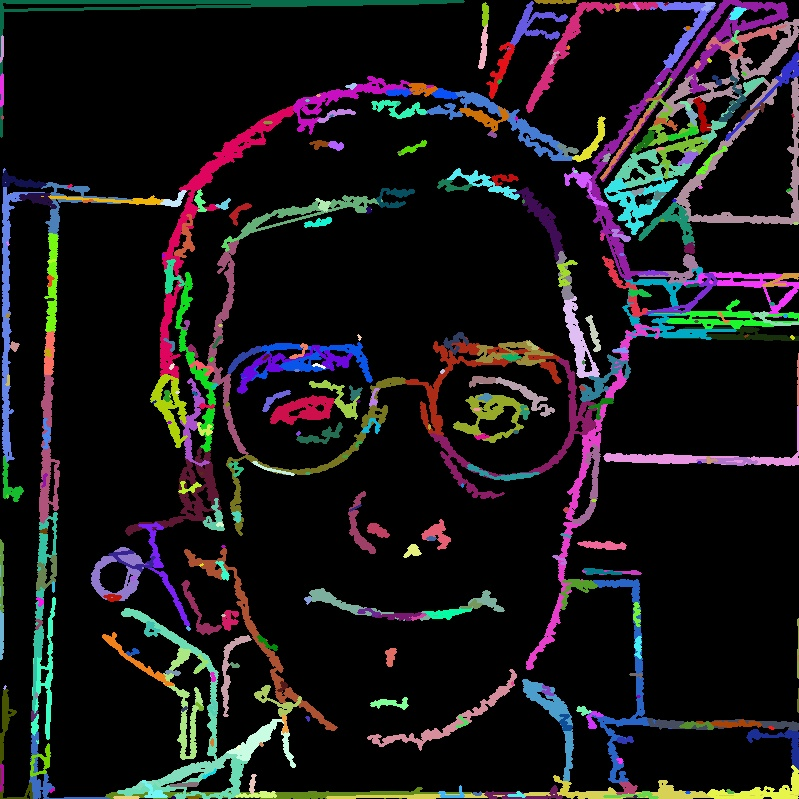
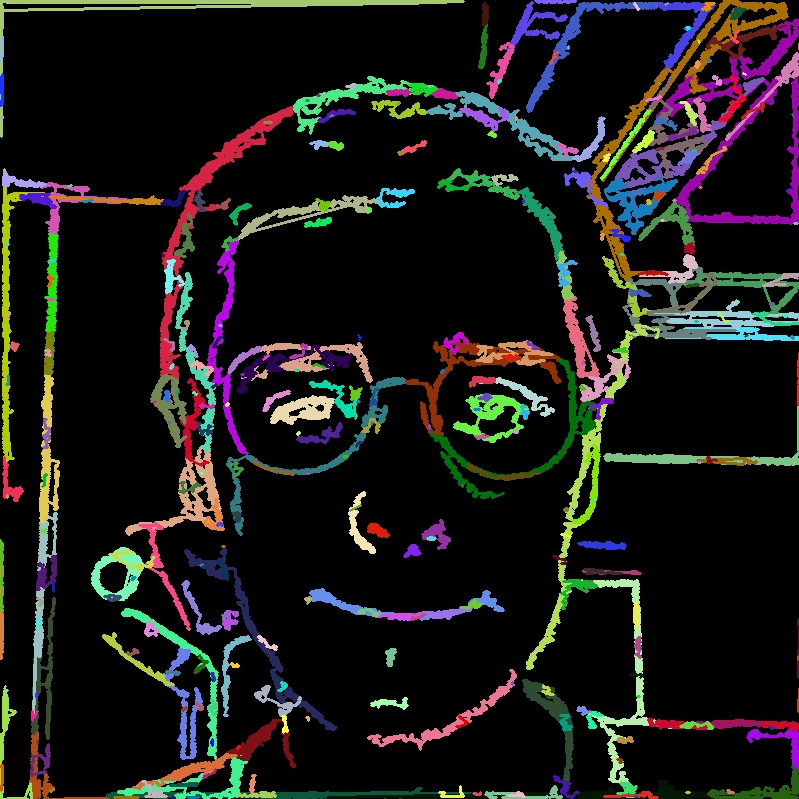
adsadsdasdasda

diff --git a/main.py b/main.py
@@ -1,12 +1,11 @@
 from modules.loader import load_sketch
 from modules.solvers import line_solver, pen_picker
-from modules.utils import sketch_plotter, line_length
+from modules.utils import sketch_plotter, line_length, give_lift_space, look_path
 import numpy as np
 from robotic import ry
-import time
 
 # TODO get WHITE_BOARD_Z from depth camera
-LIFT_SPACE = np.array([.15, .0, .0])
+MAX_LIFT_SPACE = np.array([.15, .0, .0])
 DRAW_SPEED = 0.1
 WHITEBOARD_DEPTH = .4
 SCKETCH_DIMS = [.3, .3]
@@ -36,11 +35,50 @@ pen_tip.setRelativePose("t(.0 .05 -.05)")
 pen_tip.setShape(ry.ST.sphere, size=[.005])
 pen_tip.setColor([1., .0, 1.])
 
-sketch = load_sketch("data/output.json", max_dims=SCKETCH_DIMS, canvas_center=[-.05, 0], whiteboard_depth=WHITEBOARD_DEPTH)
-C = sketch_plotter(sketch, C)
-
 bot = ry.BotOp(C, False)
 bot.home(C)
+
+# Find Faces
+find_faces = True
+if find_faces:
+    points = look_path(ry_config=C)
+    index = 0
+    while True:
+        komo = ry.KOMO()
+        komo.setConfig(C, True)
+        komo.setTiming(1, 3, 1., 2)
+        komo.addControlObjective([], 0, 1e-2)
+        komo.addControlObjective([], 2, 1e1)
+
+        komo.addObjective([], ry.FS.accumulatedCollisions, [], ry.OT.eq)
+        komo.addObjective([], ry.FS.jointLimits, [], ry.OT.ineq)
+
+        komo.addObjective([], ry.FS.vectorZ, ["l_gripper"], ry.OT.sos, [2.], [-1, 0, 0])
+        komo.addObjective([], ry.FS.vectorY, ["l_gripper"], ry.OT.eq, [0.5], [0, 0, 1])
+
+        komo.addObjective([1.], ry.FS.position, ["pen_tip"], ry.OT.eq, [1e1], points[index])
+
+        ret = ry.NLP_Solver() \
+            .setProblem(komo.nlp()) \
+            .setOptions(stopTolerance=1e-2, verbose=0) \
+            .solve()
+        print(ret)
+        
+        bot.move(komo.getPath(), [1.])
+        while bot.getTimeToEnd() > 0:
+            bot.sync(C, .1)
+
+        index += 1
+        if index >= len(points): index = 0
+
+        # Take picture
+        # if face: break
+
+    # Make face into sketch
+else:
+    sketch = load_sketch("data/compressed_good_drawing.json", max_dims=SCKETCH_DIMS, canvas_center=CANVAS_CENTER, whiteboard_depth=WHITEBOARD_DEPTH)
+
+C = sketch_plotter(sketch, C)
 
 # Grasp pen
 grasp = True
@@ -65,15 +103,18 @@ if grasp:
 bot.sync(C, .1)
 draw = True
 if draw:
-    last_point = np.array(sketch[0][0])+LIFT_SPACE
+    lift_space = MAX_LIFT_SPACE
+    last_point = np.array(sketch[0][0])+lift_space
     for j, line in enumerate(sketch):
+
+        print(f"Drawing line {j+1} of {len(sketch)}. ({(j*100/len(sketch)):.2f}% Done)")
     
         line_start = np.array(line[0])
         line_end = np.array(line[-1])
 
         # Move hand to line starting position
-        lift_path = [last_point, line_start + LIFT_SPACE, line_start]
-        time_to_solve = line_length(lift_path)/DRAW_SPEED
+        lift_path = [last_point, line_start + lift_space, line_start]
+        time_to_solve = line_length(lift_path)/(DRAW_SPEED*4)
         path = line_solver(lift_path[1:], C, debug=False)
 
         bot.move(path, [time_to_solve])
@@ -81,23 +122,27 @@ if draw:
             bot.sync(C, .1)
 
         # Draw single line
-        bot.sync(C, 0.)
-        time_to_solve = line_length(line)/DRAW_SPEED
-        path = line_solver(line[1:], C, debug=False)
+        try:
+            bot.sync(C, 0.)
+            time_to_solve = line_length(line)/DRAW_SPEED
+            path = line_solver(line[1:], C, debug=False)
 
-
-        bot.move(path, [time_to_solve])
-        while bot.getTimeToEnd() > 0:
-            bot.sync(C, .1)
+            bot.move(path, [time_to_solve])
+            while bot.getTimeToEnd() > 0:
+                bot.sync(C, .1)
+        except: pass
 
         # Lift hand from whiteboard
         bot.sync(C, 0.)
-        lift_path = [line_end, line_end + LIFT_SPACE]
-        time_to_solve = line_length(lift_path)/DRAW_SPEED
+        lift_path = [line_end, line_end + lift_space]
+        time_to_solve = line_length(lift_path)/(DRAW_SPEED*4)
         path = line_solver(lift_path[1:], C, debug=False)
 
         bot.move(path, [time_to_solve])
         while bot.getTimeToEnd() > 0:
             bot.sync(C, .1)
 
-        last_point = line_end + LIFT_SPACE
+        last_point = line_end + lift_space
+
+        if j != len(sketch)-1:
+            lift_space = np.array([give_lift_space(line_end, sketch[j+1][0]), 0, 0])

diff --git a/modules/utils.py b/modules/utils.py
@@ -27,3 +27,35 @@ def line_length(line):
     for i in range(len(line)-1):
         sum_ += np.sqrt(np.power(line[i][0]-line[i+1][0], 2)+np.power(line[i][1]-line[i+1][1], 2)+np.power(line[i][2]-line[i+1][2], 2))
     return sum_
+
+def give_lift_space(start_point, end_point, max_lift=.1, min_lift=.01):
+    start_point = np.array(start_point)
+    end_point = np.array(end_point)
+    distance = np.linalg.norm(end_point-start_point)
+    return min(max_lift, max(distance, min_lift))
+
+def look_path(center=np.array([0, 0, 1.5]), radious=np.array([-.6, 0, 0]), count_=6, ry_config=None):
+    points = []
+    rotation_matrix = np.array([
+        [np.cos(np.pi/count_), -np.sin(np.pi/count_), 0],
+        [np.sin(np.pi/count_),  np.cos(np.pi/count_), 0],
+        [                   0,                     0, 1],
+    ])
+    if ry_config:
+        ry_config.addFrame("HeadCenter") \
+            .setPosition(center) \
+            .setShape(ry.ST.sphere, size=[.02]) \
+            .setColor([0, 1, 0])
+    radious = radious @ rotation_matrix
+    radious = radious @ rotation_matrix
+    for i in range(count_):
+        radious = radious @ rotation_matrix
+
+        if ry_config:
+            ry_config.addFrame("Looking_point"+str(i)) \
+                .setPosition(radious+center) \
+                .setShape(ry.ST.sphere, size=[.02]) \
+                .setColor([1, 0, 0])
+        
+        points.append(radious+center)
+    return points

diff --git a/modules/solvers.py b/modules/solvers.py
@@ -15,7 +15,7 @@ def line_solver(waypoints, ry_config, debug=False):
     komo.setConfig(ry_config, True)
 
     T = len(waypoints)
-    komo.setTiming(T, 20, 1., 2)
+    komo.setTiming(T, 3, 1., 2)
 
     komo.addControlObjective([], 0, 1e-2)
     komo.addControlObjective([], 2, 1e1)
@@ -24,7 +24,6 @@ def line_solver(waypoints, ry_config, debug=False):
     komo.addObjective([], ry.FS.jointLimits, [], ry.OT.ineq)
 
     komo.addObjective([], ry.FS.vectorZ, ["l_gripper"], ry.OT.sos, [0.5], [1, 0, 0])
-    # komo.addObjective([], ry.FS.vectorZ, ["l_gripper"], ry.OT.eq, [.5], [0, -1, 1])
     komo.addObjective([T], ry.FS.qItself, [], ry.OT.eq, [1e1], [], 1)
 
     for i, point in enumerate(waypoints, start=0):
@@ -35,7 +34,9 @@ def line_solver(waypoints, ry_config, debug=False):
         .setOptions(stopTolerance=1e-2, verbose=0) \
         .solve()
     
-    print('line_solver return:', ret)
+    print('line_solver return:')
+    print("Line waypoints: ", len(waypoints))
+    print("Solution: ", ret)
     if debug:
         komo.view_play(True)
 

diff --git a/reductor.py b/reductor.py
@@ -10,7 +10,7 @@ def plot_lines(lines, image):
             cv2.line(image, (line[i][0], line[i][1]), (line[i+1][0], line[i+1][1]), (random_color[0], random_color[1], random_color[2]), 2)
     return image
 
-def exterminate_extra_points(sketch, threshold=15):
+def exterminate_extra_points(sketch, threshold=30):
     original_point_count = sum(len(line) for line in sketch)
     original_points_per_line = original_point_count/len(sketch)
 

diff --git a/batch.py b/batch.py
@@ -9,7 +9,7 @@ lines = json.load(open("data/compressed_good_drawing.json"))
 new_lines = []
 for line in lines:
     if len(line) > 1:
-        new_lines.append(list(batch(line, 32))[0])
+        new_lines.append(list(batch(line, 16))[0])
 
 print(max([len(line) for line in new_lines]))
 
